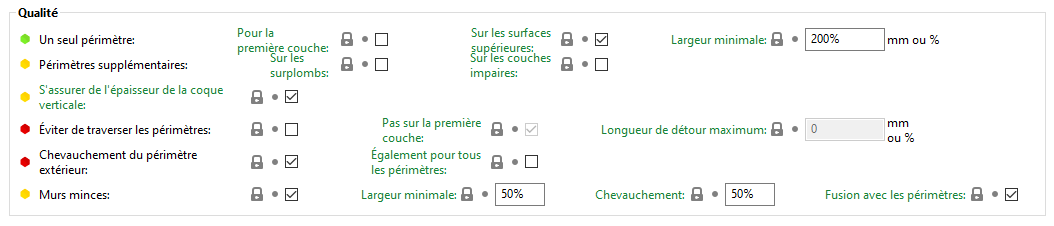
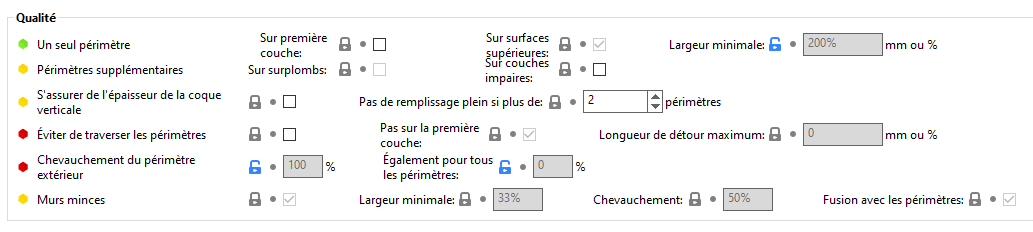
s_overhangs

diff --git a/src/print_settings/print_settings.md b/src/print_settings/print_settings.md
@@ -166,6 +166,13 @@ Cette fonctionnalité affecte actuellement encore la génération du G-code mêm
 
 ![Image : Suppression des trous entre les périmètres sur une surface inclinée (image Prusa)](./images/008.jpeg)
 
+#### *[Pas de remplissage plein si plus de](../variable/solid_over_perimeters.md)*
+
+Lorsque vous avez un nombre de couches pleines inférieures, et un nombre faible ou moyen de périmètres, alors il faut mettre du remplissage plein à l'intérieur de la pièce pour avoir assez de couches solides.
+
+En fixant cette valeur à un niveau supérieur à 0, vous pouvez supprimer ce 'remplissage intérieur'.
+
+Ce nombre permet d'en garder si le nombre de périmètre au-dessus du vide est faible.
 
 #### *[Éviter de traverser les périmètres](../variable/avoid_crossing_perimeters.md)*
 

diff --git a/src/variable/s_overhangs.md b/src/variable/s_overhangs.md
@@ -1,0 +1,16 @@
+# s_overhangs
+
+* Technologie : FDM
+* Groupe : [Réglages de l'Impression](../print_settings/print_settings.md)
+* Sous groupe : [Périmètre et enveloppe](../print_settings/print_settings.md#périmètre-et-enveloppe) - Surplombs
+* Mode : Avancé
+
+## *Seuil* Activation
+
+### Description
+
+Composant simple pour activer/désactiver la détection des surplombs (en utilisant 55% et 75% pour les deux seuils)
+
+Utilisez le mode expert pour obtenir des controles plus détaillés.
+
+[Retour Liste variables](variable_list.md)
